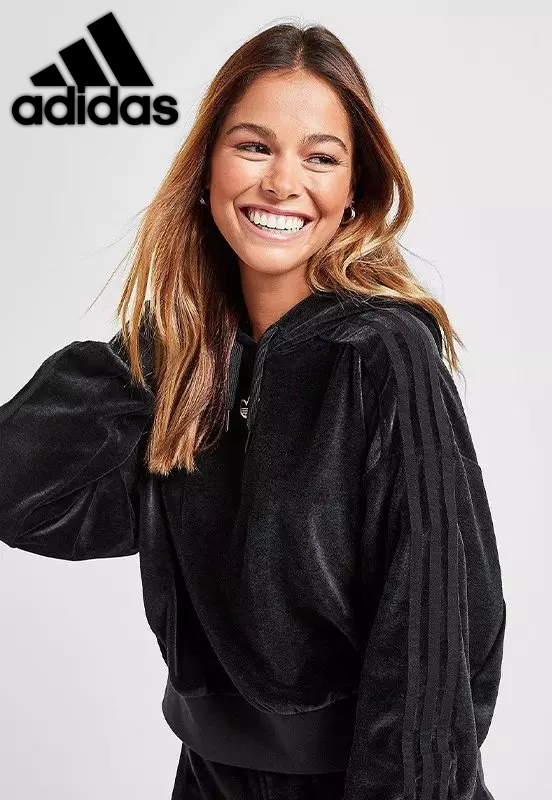
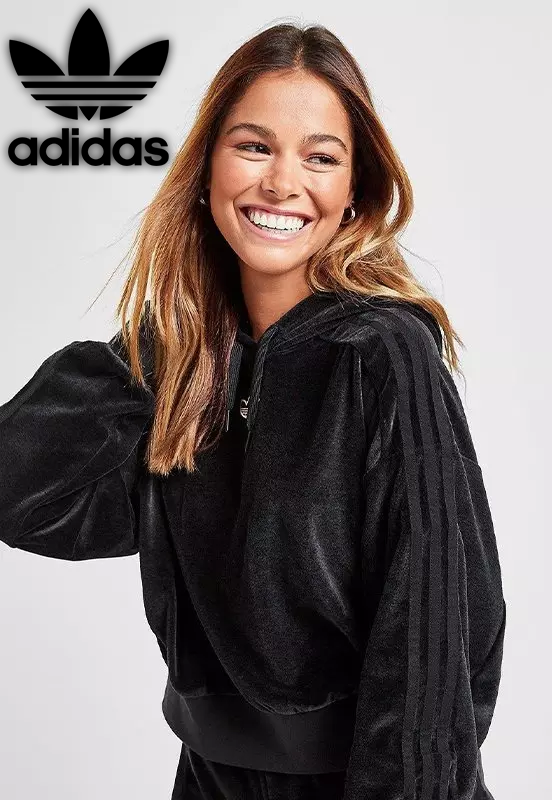
Versão Final

Changed region(s): [[0.0, 0.0, 0.3388, 0.2188]]

diff --git a/estilo.css b/estilo.css
@@ -81,7 +81,7 @@ header input {
     width: 280px;
     height: 35px;
     padding: 0px 10px;
-    font-family: 'Verdana';
+    font-family: 'Poppins';
     border: none;
 }
 
@@ -170,7 +170,6 @@ header button:hover {
     height: 18px;
     padding-block: 10px;
     padding-inline: 10px 1px;
-    font-family: 'Verdana';
     border: none;
 }
 
@@ -286,7 +285,7 @@ header button:hover {
 }
 
 .teste3 {
-    padding: 0px 10px;
+    padding: 0px 5px;
     height: 22.5px;
     font-family: 'Verdana';
     font-size: 18px;
@@ -309,7 +308,7 @@ header button:hover {
     top: 10px;
     left: 10px;
     margin: 0;
-    padding: 0px 10px;
+    padding: 0px 5px;
     height: 25px;
     font-family: 'Verdana';
     font-size: 20px;
@@ -414,4 +413,11 @@ header button:hover {
     to {
         opacity: 1
     }
+}
+
+.item {
+    position: relative;
+    width: 50%;
+    height: auto;
+    margin: 35px 15px;
 }

diff --git a/sale.html b/sale.html
@@ -434,7 +434,7 @@
 
         <div class="produto">
             <img class="img" src="img/relogio2.png" alt="">
-            <p class="nome"> Lacoste T-Shirt Colour Block Wordmark </p>
+            <p class="nome"> Montre Lotus SPORT 18652-1 - Montre </p>
             <p class="precoAntigo"> 129,00€ </p>
             <div class="desconto">
                 <p class="teste3"> DESCONTO </p>

diff --git a/adidas.html b/adidas.html
@@ -11,7 +11,7 @@
     <link rel="stylesheet" href="estilo.css">
     <link rel="stylesheet" href="media.css">
     <link rel="icon" href="img/logo.png">
-    <title>  Adidas | De Castro </title>
+    <title>  Adidas Originals | De Castro </title>
 </head>
 <body>
     <header class="menu" id="Menu">

diff --git a/js/scripts.js b/js/scripts.js
@@ -1,5 +1,4 @@
 /* Slide Show */
-
 var slideIndex = 1;
 showSlides(slideIndex);
 
@@ -28,7 +27,6 @@ function showSlides(n) {
 }
 
 /* Menu Responsive */
-
 function myFunction() {
     var x = document.getElementById("Menu");
     if (x.className === "menu") {

diff --git a/media.css b/media.css
@@ -133,7 +133,6 @@
         float: left;
         flex: 80%;
         height: 19px;
-        font-family: 'Verdana';
         border: none;
         border-radius: 0px;
     }
